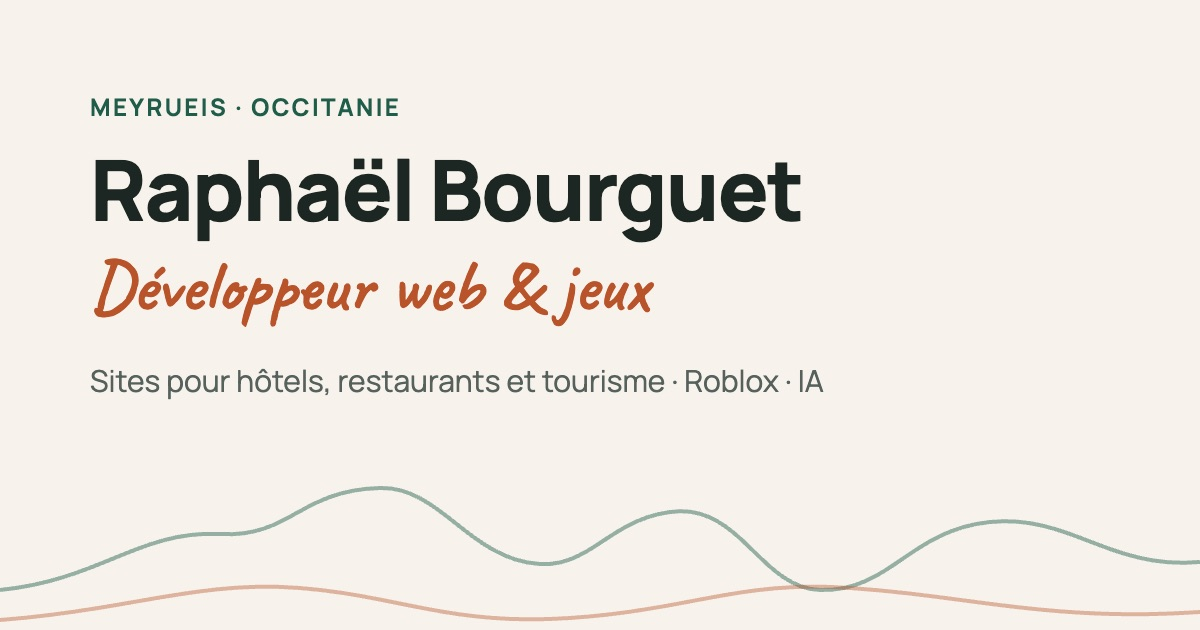
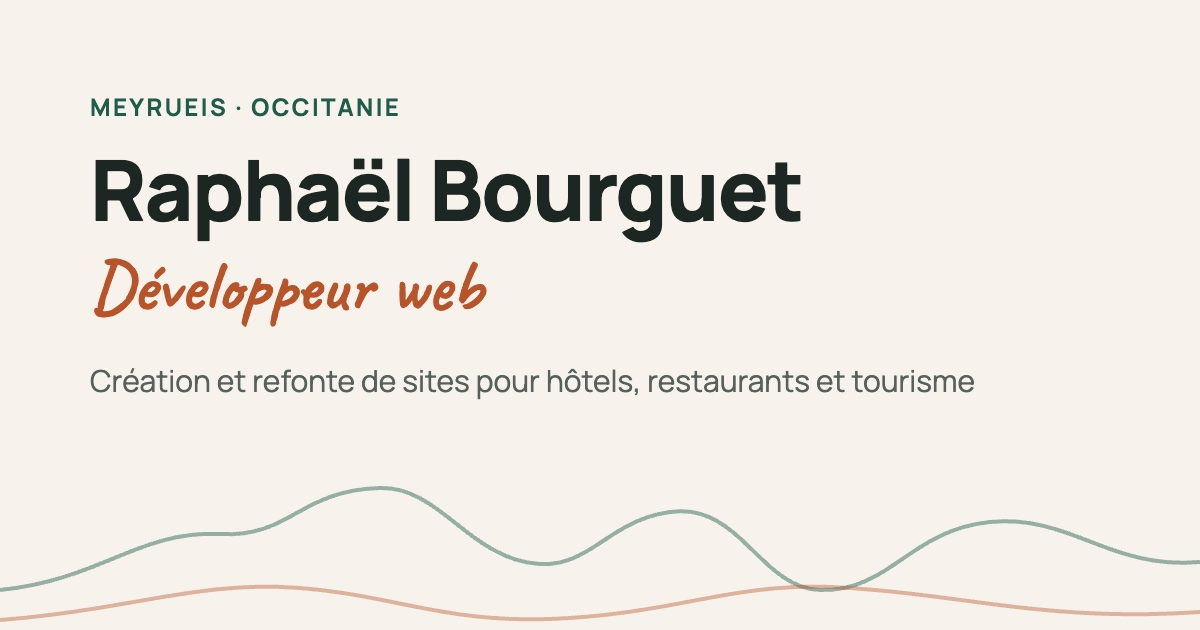
Portfolio plus professionnel : retire Roblox, Discord, réseaux et loisirs

Changed region(s): [[0.0617, 0.573, 0.8325, 0.6333], [0.4008, 0.4222, 0.555, 0.5127]]

diff --git a/index.html b/index.html
@@ -7,8 +7,8 @@
   <meta http-equiv="Content-Security-Policy" content="default-src 'self'; script-src 'self'; style-src 'self'; img-src 'self' data:; font-src 'self'; connect-src 'self' https://formspree.io; form-action 'self' https://formspree.io; base-uri 'self'; object-src 'none'; upgrade-insecure-requests">
   <meta name="referrer" content="strict-origin-when-cross-origin">
 
-  <title>Raphaël Bourguet — Développeur web & jeux | Sites pour hôtels et restaurants</title>
-  <meta name="description" content="Raphaël Bourguet, étudiant et développeur web & jeux indépendant à Meyrueis (Lozère, Occitanie). Création et refonte de sites modernes pour hôtels, restaurants et tourisme, jeux Roblox, contenus IA.">
+  <title>Raphaël Bourguet — Développeur web | Sites pour hôtels et restaurants</title>
+  <meta name="description" content="Raphaël Bourguet, étudiant et développeur web indépendant à Meyrueis (Lozère, Occitanie). Création et refonte de sites modernes, rapides et sécurisés pour hôtels, restaurants et tourisme.">
   <meta name="author" content="Raphaël Bourguet">
   <meta name="theme-color" content="#1f5c4a">
   <!-- À REMPLACER : votre vrai nom de domaine (ici et dans sitemap.xml / robots.txt) -->
@@ -21,13 +21,13 @@
   <meta property="og:type" content="website">
   <meta property="og:locale" content="fr_FR">
   <meta property="og:site_name" content="Raphaël Bourguet">
-  <meta property="og:title" content="Raphaël Bourguet — Développeur web & jeux">
-  <meta property="og:description" content="Sites modernes pour hôtels, restaurants et tourisme, jeux Roblox et contenus IA. Basé à Meyrueis, Occitanie.">
+  <meta property="og:title" content="Raphaël Bourguet — Développeur web">
+  <meta property="og:description" content="Création et refonte de sites modernes pour hôtels, restaurants et tourisme. Basé à Meyrueis, Occitanie.">
   <meta property="og:url" content="https://votre-domaine.fr/">
   <meta property="og:image" content="https://votre-domaine.fr/assets/img/og-image.jpg">
   <meta property="og:image:width" content="1200">
   <meta property="og:image:height" content="630">
-  <meta property="og:image:alt" content="Raphaël Bourguet, développeur web et jeux — portfolio">
+  <meta property="og:image:alt" content="Raphaël Bourguet, développeur web — portfolio">
   <meta name="twitter:card" content="summary_large_image">
 
   <link rel="icon" href="favicon.svg" type="image/svg+xml">
@@ -43,10 +43,10 @@
     "@context": "https://schema.org",
     "@type": "Person",
     "name": "Raphaël Bourguet",
-    "jobTitle": "Développeur web et jeux indépendant",
+    "jobTitle": "Développeur web indépendant",
     "url": "https://votre-domaine.fr/",
     "address": { "@type": "PostalAddress", "addressLocality": "Meyrueis", "addressRegion": "Occitanie", "addressCountry": "FR" },
-    "knowsAbout": ["Création de sites web", "Refonte de sites", "UI moderne", "Roblox Studio", "Luau", "Images et vidéos IA", "SEO", "Sécurité web"],
+    "knowsAbout": ["Création de sites web", "Refonte de sites", "UI moderne", "SEO", "Sécurité web"],
     "sameAs": ["https://github.com/rapheafezf"]
   }
   </script>
@@ -101,7 +101,7 @@
             <svg class="scribble" viewBox="0 0 220 24" preserveAspectRatio="none" aria-hidden="true" focusable="false"><path class="draw" d="M3 16 C50 6 110 4 217 12 M20 21 C80 14 140 13 200 18"/></svg>
           </span>
         </h1>
-        <p class="hero__lead reveal">Je crée et je refais des sites modernes, rapides et soignés pour les <strong>hôtels, restaurants et acteurs du tourisme</strong>, et je développe aussi des jeux sur Roblox Studio.</p>
+        <p class="hero__lead reveal">Je crée et je refais des sites modernes, rapides et soignés pour les <strong>hôtels, restaurants et acteurs du tourisme</strong>.</p>
         <div class="hero__cta reveal">
           <a class="btn btn--primary" href="#services">Voir mes services</a>
           <a class="btn btn--ghost" href="#contact">Me contacter</a>
@@ -127,18 +127,9 @@
         </div>
         <div class="about__text">
           <h2 class="section-title reveal" id="about-title"><span class="hand">À propos</span></h2>
-          <p class="reveal">Je m'appelle Raphaël. Je suis étudiant et développeur web & jeux indépendant, basé à <strong>Meyrueis</strong>, entre Causses et Gorges du Tarn. Vivre dans une région touristique m'a donné une spécialité : les sites pour les <strong>hôtels, restaurants et acteurs du tourisme</strong>, pensés pour donner envie de venir et pour faciliter la prise de contact ou la réservation.</p>
+          <p class="reveal">Je m'appelle Raphaël. Je suis étudiant et développeur web indépendant, basé à <strong>Meyrueis</strong>, entre Causses et Gorges du Tarn. Vivre dans une région touristique m'a donné une spécialité : les sites pour les <strong>hôtels, restaurants et acteurs du tourisme</strong>, pensés pour donner envie de venir et pour faciliter la prise de contact ou la réservation.</p>
           <p class="reveal">J'aime les interfaces modernes et rapides, le détail des animations, et je m'occupe aussi des bases du référencement (SEO) et de la sécurité.</p>
           <p class="reveal todo-block"><span class="todo">À compléter</span> Votre parcours : école / formation actuelle, depuis quand vous codez, ce qui vous a lancé…</p>
-
-          <h3 class="subhead reveal">En dehors du code</h3>
-          <ul class="passions reveal" aria-label="Passions">
-            <li><svg viewBox="0 0 24 24" aria-hidden="true"><circle cx="6" cy="16" r="4"/><circle cx="18" cy="16" r="4"/><path d="M6 16l4-8h5l3 8M10 8 8 5h3m4 3-1-3h2"/></svg>Cyclisme & jeux de gestion cycliste</li>
-            <li><svg viewBox="0 0 24 24" aria-hidden="true"><circle cx="12" cy="12" r="9"/><path d="m12 7 4 3-1.5 4.5h-5L8 10z"/></svg>Football</li>
-            <li><svg viewBox="0 0 24 24" aria-hidden="true"><rect x="2" y="7" width="20" height="11" rx="4"/><path d="M7 11v3M5.5 12.5h3M16 12h.01M18 14h.01"/></svg>Jeux vidéo</li>
-            <li><svg viewBox="0 0 24 24" aria-hidden="true"><rect x="3" y="5" width="18" height="12" rx="2"/><path d="m10 9 5 2-5 2zM8 21h8"/></svg>Streaming</li>
-            <li><svg viewBox="0 0 24 24" aria-hidden="true"><path d="M8 17c-3 0-5-1-5-1l1.5-8S7 6 9 6l.5 1h5l.5-1c2 0 4.5 2 4.5 2L21 16s-2 1-5 1l-1-2H9z"/><circle cx="9.5" cy="12" r="1"/><circle cx="14.5" cy="12" r="1"/></svg>Communautés Discord</li>
-          </ul>
         </div>
       </div>
     </section>
@@ -195,7 +186,7 @@
       <div class="container">
         <header class="section-head">
           <h2 class="section-title reveal" id="services-title"><span class="hand">Compétences & services</span></h2>
-          <p class="section-intro reveal">Ce que je peux faire pour vous, du site vitrine à la présence sur les réseaux.</p>
+          <p class="section-intro reveal">Ce que je peux faire pour vous, du site vitrine au référencement.</p>
         </header>
 
         <ul class="grid grid--services">
@@ -211,32 +202,17 @@
           </li>
           <li class="service reveal">
             <svg class="service__icon" viewBox="0 0 48 48" aria-hidden="true"><path class="draw" d="M8 40V20M8 12V8M24 40V30M24 22V8M40 40V24M40 16V8M4 16h8M20 26h8M36 20h8"/></svg>
-            <h3>UI moderne</h3>
+            <h3>Design d’interface</h3>
             <p>Interfaces claires et soignées, animations légères, thème clair / sombre et attention à l'accessibilité.</p>
           </li>
           <li class="service reveal">
-            <svg class="service__icon" viewBox="0 0 48 48" aria-hidden="true"><rect class="draw" x="10" y="10" width="28" height="28" rx="3" transform="rotate(-10 24 24)"/><path class="draw" d="m19 21-4 3 4 3m10-6 4 3-4 3"/></svg>
-            <h3>Roblox Studio & scripting</h3>
-            <p>Création d'expériences Roblox et scripts de gameplay en Luau.</p>
-          </li>
-          <li class="service reveal">
-            <svg class="service__icon" viewBox="0 0 48 48" aria-hidden="true"><rect class="draw" x="6" y="10" width="36" height="28" rx="4"/><path class="draw" d="m6 32 10-10 8 8 6-6 12 12M33 18h.01"/></svg>
-            <h3>Images & vidéos IA</h3>
-            <p>Génération de visuels et de vidéos par IA, rédaction de prompts efficaces.</p>
-          </li>
-          <li class="service reveal">
-            <svg class="service__icon" viewBox="0 0 48 48" aria-hidden="true"><rect class="draw" x="14" y="4" width="20" height="40" rx="4"/><path class="draw" d="m21 18 8 5-8 5z"/></svg>
-            <h3>Contenus réseaux sociaux</h3>
-            <p>Création de contenus courts pour TikTok, Instagram et les communautés Discord.</p>
-          </li>
-          <li class="service reveal">
             <svg class="service__icon" viewBox="0 0 48 48" aria-hidden="true"><circle class="draw" cx="21" cy="21" r="13"/><path class="draw" d="m31 31 11 11M15 24l4-4 3 3 5-6"/></svg>
-            <h3>SEO de base</h3>
+            <h3>Référencement (SEO)</h3>
             <p>Titres, descriptions, balisage, performance et fichiers utiles aux moteurs de recherche.</p>
           </li>
           <li class="service reveal">
             <svg class="service__icon" viewBox="0 0 48 48" aria-hidden="true"><path class="draw" d="M24 4 8 10v12c0 10 7 18 16 22 9-4 16-12 16-22V10z"/><path class="draw" d="m17 24 5 5 9-10"/></svg>
-            <h3>Sécurité web de base</h3>
+            <h3>Sécurité web</h3>
             <p>HTTPS, en-têtes de sécurité, formulaires protégés contre le spam et bonnes pratiques.</p>
           </li>
         </ul>
@@ -248,7 +224,7 @@
       <div class="container contact">
         <div class="contact__intro">
           <h2 class="section-title reveal" id="contact-title"><span class="hand">Contact</span></h2>
-          <p class="reveal">Un projet de site pour votre hôtel, votre restaurant ou votre activité touristique ? Une question sur un jeu ? Écrivez-moi, je vous réponds rapidement.</p>
+          <p class="reveal">Un projet de site pour votre hôtel, votre restaurant ou votre activité touristique ? Écrivez-moi, je vous réponds rapidement.</p>
 
           <ul class="contact__list reveal">
             <li>
@@ -262,12 +238,7 @@
             </li>
           </ul>
 
-          <ul class="socials reveal" aria-label="Réseaux sociaux">
-            <!-- À REMPLACER : remplacez chaque href="#" par votre vrai lien et retirez la classe is-todo -->
-            <li><a class="social is-todo" href="#" aria-label="TikTok (lien à ajouter)"><svg viewBox="0 0 24 24" aria-hidden="true"><path d="M14 3v11.5a3.5 3.5 0 1 1-3.5-3.5M14 3c.5 2.5 2.5 4.5 5 5"/></svg>TikTok</a></li>
-            <li><a class="social is-todo" href="#" aria-label="Discord (lien à ajouter)"><svg viewBox="0 0 24 24" aria-hidden="true"><path d="M8 17c-3 0-5-1-5-1l1.5-8S7 6 9 6l.5 1h5l.5-1c2 0 4.5 2 4.5 2L21 16s-2 1-5 1l-1-2H9z"/><circle cx="9.5" cy="12" r="1"/><circle cx="14.5" cy="12" r="1"/></svg>Discord</a></li>
-            <li><a class="social is-todo" href="#" aria-label="Chaîne de streaming (lien à ajouter)"><svg viewBox="0 0 24 24" aria-hidden="true"><rect x="3" y="5" width="18" height="12" rx="2"/><path d="m10 9 5 2-5 2zM8 21h8"/></svg>Stream</a></li>
-            <li><a class="social is-todo" href="#" aria-label="Roblox (lien à ajouter)"><svg viewBox="0 0 24 24" aria-hidden="true"><rect x="5" y="5" width="14" height="14" rx="2" transform="rotate(-12 12 12)"/><rect x="10" y="10" width="4" height="4" transform="rotate(-12 12 12)"/></svg>Roblox</a></li>
+          <ul class="socials reveal" aria-label="Liens">
             <li><a class="social" href="https://github.com/rapheafezf" target="_blank" rel="noopener noreferrer"><svg viewBox="0 0 24 24" aria-hidden="true"><path d="M9 19c-4 1.5-4-2-6-2.5M15 21v-3.5c0-1 .1-1.4-.5-2 2.8-.3 5.5-1.4 5.5-6a4.6 4.6 0 0 0-1.3-3.2 4.2 4.2 0 0 0-.1-3.2s-1.1-.3-3.5 1.3a12 12 0 0 0-6.2 0C6.5 2.8 5.4 3.1 5.4 3.1a4.2 4.2 0 0 0-.1 3.2A4.6 4.6 0 0 0 4 9.5c0 4.6 2.7 5.7 5.5 6-.6.6-.6 1.2-.5 2V21"/></svg>GitHub<span class="sr-only"> (nouvel onglet)</span></a></li>
           </ul>
         </div>
@@ -297,8 +268,7 @@
             <select id="f-sujet" name="sujet">
               <option>Création de site</option>
               <option>Refonte de site</option>
-              <option>Jeu Roblox</option>
-              <option>Contenus IA / réseaux sociaux</option>
+              <option>Référencement (SEO)</option>
               <option>Autre</option>
             </select>
           </div>

diff --git a/css/style.css b/css/style.css
@@ -190,7 +190,7 @@ code { font-size: .9em; background: var(--bg-alt); padding: .1em .35em; border-r
 /* Grilles */
 .grid { display: grid; gap: 1.5rem; }
 @media (min-width: 640px) { .grid--projects, .grid--sites, .grid--services { grid-template-columns: repeat(2, 1fr); } }
-@media (min-width: 1000px) { .grid--projects, .grid--sites { grid-template-columns: repeat(3, 1fr); } .grid--services { grid-template-columns: repeat(4, 1fr); } }
+@media (min-width: 1000px) { .grid--projects, .grid--sites { grid-template-columns: repeat(3, 1fr); } .grid--services { grid-template-columns: repeat(3, 1fr); } }
 
 /* Cartes */
 .card { display: flex; flex-direction: column; background: var(--surface); border: 1px solid var(--line); border-radius: var(--radius); overflow: hidden; box-shadow: var(--shadow); transition: transform .3s ease, box-shadow .3s ease; }
@@ -288,3 +288,5 @@ code { font-size: .9em; background: var(--bg-alt); padding: .1em .35em; border-r
 }
 
 p.todo { width: fit-content; }
+@media (min-width: 640px) { .grid--services { display: flex; flex-wrap: wrap; justify-content: center; } .grid--services > li { flex: 0 1 calc((100% - 1.5rem) / 2); } }
+@media (min-width: 1000px) { .grid--services > li { flex-basis: calc((100% - 3rem) / 3); } }

diff --git a/README.md b/README.md
@@ -18,7 +18,7 @@ Le formulaire ne s'envoie pas réellement en local (Netlify Forms ne fonctionne 
 |---|---|
 | Domaine `https://votre-domaine.fr/` | `index.html` (canonical, hreflang, OG, JSON-LD), `en/index.html`, `robots.txt`, `sitemap.xml`, `netlify.toml` |
 | E-mail `contact@votre-domaine.fr` | `index.html` (section Contact) et `CONTACT_EMAIL` dans `js/main.js` |
-| Réseaux (TikTok, Discord, Stream, Roblox) | `index.html`, liens `href="#"` avec la classe `is-todo` : mettre l'URL et retirer `is-todo` |
+| Liens (LinkedIn, etc.) | Section Contact : ajouter un `<li><a class="social" href="…">` à côté de GitHub |
 | Photo | Section À propos : remplacer le bloc « Photo à fournir » par un `<img>` (≈ 800×1000, JPG/WebP, avec `alt`) |
 | Logo | Pastille « R » dans le header, `favicon.svg`, `assets/img/apple-touch-icon.png` |
 | Parcours | Paragraphe `todo-block` de la section À propos |
